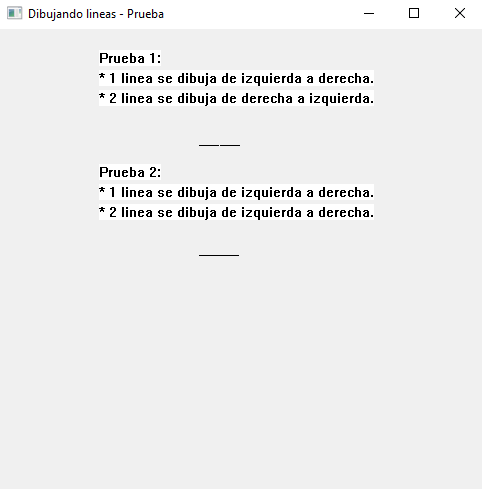
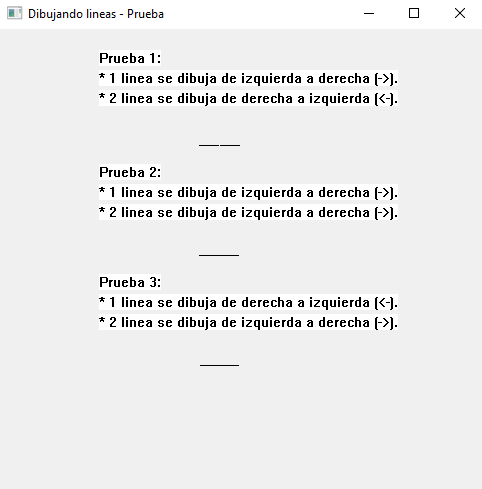
Practice

Changed region(s): [[0.2178, 0.5521, 0.8402, 0.6748], [0.778, 0.3681, 0.8402, 0.4601], [0.778, 0.1534, 0.8402, 0.2147]]

diff --git a/c++/contorno_fractal_t_square/contorno_fractal_t_square.cpp b/c++/contorno_fractal_t_square/contorno_fractal_t_square.cpp
@@ -7,16 +7,16 @@ using namespace std;
 static TCHAR class_name[] = "Desktop App";
 static TCHAR title_text[] = "Contorno fractal - T-square";
 // Declaración del procedimiento de ventana
-//void dibujarObjeto(HDC, int, int, int);
-void dibujarLinea(HDC, int, int, int, int);
-void dibujarBordeEsquinaSI(HDC, int, int, int);
-void dibujarBordeEsquinaSD(HDC, int, int, int);
-void dibujarBordeEsquinaII(HDC, int, int, int);
-void dibujarBordeEsquinaID(HDC, int, int, int);
-void dibujarEsquina(HDC, int, int, int, int);
-void contornoFractal(HDC, int, int, int);
-//void L(HDC, int, int, int, int);
-int width, height;
+//void dibujarObjeto(HDC, double, double, double);
+void dibujarLinea(HDC, double, double, double, double);
+void dibujarBordeEsquinaSI(HDC, double, double, double);
+void dibujarBordeEsquinaSD(HDC, double, double, double);
+void dibujarBordeEsquinaII(HDC, double, double, double);
+void dibujarBordeEsquinaID(HDC, double, double, double);
+void dibujarEsquina(HDC, double, double, double, double);
+void contornoFractal(HDC, double, double, double);
+//void L(HDC, double, double, double, double);
+double width, height;
 LRESULT CALLBACK WindowProcedure(HWND, UINT, WPARAM, LPARAM);
 int WINAPI WinMain(
   HINSTANCE hThisInstance,
@@ -73,7 +73,7 @@ int WINAPI WinMain(
   return mensaje.wParam;
 }
 /* Definition */
-/*void dibujarObjeto(HDC hdc, int x, int y, int a) {
+/*void dibujarObjeto(HDC hdc, double x, double y, double a) {
   MoveToEx(hdc, x, y, NULL);
   LineTo(hdc, x + a, y);
   MoveToEx(hdc, x + a, y, NULL);
@@ -83,33 +83,34 @@ int WINAPI WinMain(
   MoveToEx(hdc, x, y + a, NULL);
   LineTo(hdc, x, y);
 }*/
-void dibujarLinea(HDC hdc, int xi, int yi, int xf, int yf) {
+void dibujarLinea(HDC hdc, double xi, double yi, double xf, double yf) {
   MoveToEx(hdc, xi, yi, NULL);
   LineTo(hdc, xf, yf);
 }
 // Dibujar bordes de esquina SI, SD, II, ID
-void dibujarBordeEsquinaSI(HDC hdc, int x, int y, int a) {
-  dibujarLinea(hdc, x, y, x, y + (a / 2)); // Borde SI -> Izq
-  dibujarLinea(hdc, x, y, x + (a / 2), y); // Borde SI -> Sup
+void dibujarBordeEsquinaSI(HDC hdc, double x, double y, double a) {
+  dibujarLinea(hdc, x, y + (a / 2), x, y); // Borde SI -> Izq
+  dibujarLinea(hdc, x + (a / 2), y, x, y); // Borde SI -> Sup
 }
-void dibujarBordeEsquinaSD(HDC hdc, int x, int y, int a) {
+void dibujarBordeEsquinaSD(HDC hdc, double x, double y, double a) {
   dibujarLinea(hdc, x, y + (a / 2), x, y); // Borde SD -> Der
   dibujarLinea(hdc, x - (a / 2), y, x, y); // borde SD -> Sup
 }
-void dibujarBordeEsquinaII(HDC hdc, int x, int y, int a) {
+void dibujarBordeEsquinaII(HDC hdc, double x, double y, double a) {
   dibujarLinea(hdc, x, y - (a / 2), x, y); // Borde II -> Izq
-  dibujarLinea(hdc, x, y, x + (a / 2), y); // Borde II -> Inf
+  dibujarLinea(hdc, x + (a / 2), y, x, y); // Borde II -> Inf
 }
-void dibujarBordeEsquinaID(HDC hdc, int x, int y, int a) {
+void dibujarBordeEsquinaID(HDC hdc, double x, double y, double a) {
   dibujarLinea(hdc, x, y - (a / 2), x, y); // Borde ID -> Der
   dibujarLinea(hdc, x - (a / 2), y, x, y); // Borde ID -> Inf
 }
-
-void dibujarEsquina(HDC hdc, int x, int y, int a, int lu) {
+void dibujarEsquina(HDC hdc, double x, double y, double a, double lu) {
   if (a > 100) { // Prueba cambiando el numero 100 por un numero menor o mayor
     if (lu == 1) {
-      dibujarLinea(hdc, x - (a / 4), y - (a / 2), x + (a / 4), y - (a / 2)); // Superior
-      dibujarLinea(hdc, x - (a / 2), y - (a / 4), x - (a / 2), y + (a / 4)); // Izquierda
+      dibujarLinea(hdc, x, y - (a / 2), x - (a / 4), y - (a / 2)); // Superior - Parte 1
+      dibujarLinea(hdc, x, y - (a / 2), x + (a / 4), y - (a / 2)); // Superior - Parte 2
+      dibujarLinea(hdc, x - (a / 2), y, x - (a / 2), y - (a / 4)); // Izquierda - Parte 1
+      dibujarLinea(hdc, x - (a / 2), y, x - (a / 2), y + (a / 4)); // Izquierda - Parte 2
       dibujarLinea(hdc, x, y + (a / 2), x - (a / 4), y + (a / 2)); // Inferior
       dibujarLinea(hdc, x + (a / 2), y, x + (a / 2), y - (a / 4)); // Derecha
       dibujarEsquina(hdc, x - (a / 2), y - (a / 2), a / 2, 1); // SI
@@ -117,18 +118,22 @@ void dibujarEsquina(HDC hdc, int x, int y, int a, int lu) {
       dibujarEsquina(hdc, x - (a / 2), y + (a / 2), a / 2, 3); // II
     }
     else if (lu == 2) {
-      dibujarLinea(hdc, x - (a / 4), y - (a / 2), x + (a / 4), y - (a / 2)); // Superior
+      dibujarLinea(hdc, x, y - (a / 2), x - (a / 4), y - (a / 2)); // Superior - Parte 1
+      dibujarLinea(hdc, x, y - (a / 2), x + (a / 4), y - (a / 2)); // Superior - Parte 2
       dibujarLinea(hdc, x - (a / 2), y, x - (a / 2), y - (a / 4)); // Izquierda
       dibujarLinea(hdc, x, y + (a / 2), x + (a / 4), y + (a / 2)); // Inferior
-      dibujarLinea(hdc, x + (a / 2), y - (a / 4), x + (a / 2), y + (a / 4)); // Derecha
+      dibujarLinea(hdc, x + (a / 2), y, x + (a / 2), y - (a / 4)); // Derecha - Parte 1
+      dibujarLinea(hdc, x + (a / 2), y, x + (a / 2), y + (a / 4)); // Derecha - Parte 2
       dibujarEsquina(hdc, x + (a / 2), y - (a / 2), a / 2, 2); // SD
       dibujarEsquina(hdc, x - (a / 2), y - (a / 2), a / 2, 1); // SI
       dibujarEsquina(hdc, x + (a / 2), y + (a / 2), a / 2, 4); // ID
     }
     else if (lu == 3) {
       dibujarLinea(hdc, x, y - (a / 2), x - (a / 4), y - (a / 2)); // Superior
-      dibujarLinea(hdc, x - (a / 2), y - (a / 4), x - (a / 2), y + (a / 4)); // Izquierda
-      dibujarLinea(hdc, x - (a / 4), y + (a / 2), x + (a / 4), y + (a / 2)); // Inferior
+      dibujarLinea(hdc, x - (a / 2), y, x - (a / 2), y - (a / 4)); // Izquierda - Parte 1
+      dibujarLinea(hdc, x - (a / 2), y, x - (a / 2), y + (a / 4)); // Izquierda - Parte 2
+      dibujarLinea(hdc, x, y + (a / 2), x - (a / 4), y + (a / 2)); // Inferior - Parte 1
+      dibujarLinea(hdc, x, y + (a / 2), x + (a / 4), y + (a / 2)); // Inferior - Parte 2
       dibujarLinea(hdc, x + (a / 2), y, x + (a / 2), y + (a / 4)); // Derecha
       dibujarEsquina(hdc, x - (a / 2), y + (a / 2), a / 2, 3); // II
       dibujarEsquina(hdc, x - (a / 2), y - (a / 2), a / 2, 1); // SI
@@ -137,8 +142,10 @@ void dibujarEsquina(HDC hdc, int x, int y, int a, int lu) {
     else {
       dibujarLinea(hdc, x, y - (a / 2), x + (a / 4), y - (a / 2)); // Superior
       dibujarLinea(hdc, x - (a / 2), y, x - (a / 2), y + (a / 4)); // Izquierda
-      dibujarLinea(hdc, x - (a / 4), y + (a / 2), x + (a / 4), y + (a / 2)); // Inferior
-      dibujarLinea(hdc, x + (a / 2), y - (a / 4), x + (a / 2), y + (a / 4)); // Derecha
+      dibujarLinea(hdc, x, y + (a / 2), x - (a / 4), y + (a / 2)); // Inferior - Parte 1
+      dibujarLinea(hdc, x, y + (a / 2), x + (a / 4), y + (a / 2)); // Inferior - Parte 2
+      dibujarLinea(hdc, x + (a / 2), y, x + (a / 2), y - (a / 4)); // Derecha - Parte 1
+      dibujarLinea(hdc, x + (a / 2), y, x + (a / 2), y + (a / 4)); // Derecha - Parte 2
       dibujarEsquina(hdc, x + (a / 2), y + (a / 2), a / 2, 4); // ID
       dibujarEsquina(hdc, x + (a / 2), y - (a / 2), a / 2, 2); // SD
       dibujarEsquina(hdc, x - (a / 2), y + (a / 2), a / 2, 3); // II
@@ -167,13 +174,17 @@ void dibujarEsquina(HDC hdc, int x, int y, int a, int lu) {
     }
   }
 }
-void contornoFractal(HDC hdc, int x, int y, int a) {
+void contornoFractal(HDC hdc, double x, double y, double a) {
   //Rectangle(hdc, x-a, y-a, x+a, y+a);
   //dibujarObjeto(hdc, x -(a / 2), y - (a / 2), a);
-  dibujarLinea(hdc, x - (a / 4), y - (a / 2), x + (a / 4), y - (a / 2));
-  dibujarLinea(hdc, x - (a / 4), y + (a / 2), x + (a / 4), y + (a / 2));
-  dibujarLinea(hdc, x - (a / 2), y - (a / 4), x - (a / 2), y + (a / 4));
-  dibujarLinea(hdc, x + (a / 2), y - (a / 4), x + (a / 2), y + (a / 4));
+  dibujarLinea(hdc, x, y - (a / 2), x - (a / 4), y - (a / 2)); // Superior - Parte 1
+  dibujarLinea(hdc, x, y - (a / 2), x + (a / 4), y - (a / 2)); // Superior - Parte 2
+  dibujarLinea(hdc, x, y + (a / 2), x - (a / 4), y + (a / 2)); // Inferior - Parte 1
+  dibujarLinea(hdc, x, y + (a / 2), x + (a / 4), y + (a / 2)); // Inferior - Parte 2
+  dibujarLinea(hdc, x - (a / 2), y, x - (a / 2), y - (a / 4)); // Izquierda - Parte 1
+  dibujarLinea(hdc, x - (a / 2), y, x - (a / 2), y + (a / 4)); // Izquierda - Parte 2
+  dibujarLinea(hdc, x + (a / 2), y, x + (a / 2), y - (a / 4)); // Derecha - Parte 1
+  dibujarLinea(hdc, x + (a / 2), y, x + (a / 2), y + (a / 4)); // Derecha - Parte 2
   // SI = 1; SD = 2; II = 3; ID = 4;
   // SI = superior izquierdo
   // SD = superior derecho
@@ -184,7 +195,7 @@ void contornoFractal(HDC hdc, int x, int y, int a) {
   dibujarEsquina(hdc, x - (a / 2), y + (a / 2), a / 2, 3); // II
   dibujarEsquina(hdc, x + (a / 2), y + (a / 2), a / 2, 4); // ID
 }
-/*void L(HDC hdc, int xi, int yi, int xf, int yf) {
+/*void L(HDC hdc, double xi, double yi, double xf, double yf) {
   MoveToEx(hdc, xi, yi, NULL);
   LineTo(hdc, xf, yf);
 }*/

diff --git a/c++/contorno_fractal_t_square/dibujando_lineas_prueba.cpp b/c++/contorno_fractal_t_square/dibujando_lineas_prueba.cpp
@@ -87,21 +87,29 @@ LRESULT CALLBACK WindowProcedure(HWND hwnd, UINT mensaje, WPARAM wParam, LPARAM 
       HDC hdc;
       hdc = BeginPaint(hwnd, &ps);
       static TCHAR titulo1[] = "Prueba 1:";
-      static TCHAR prueba_11[] = "* 1 linea se dibuja de izquierda a derecha.";
-      static TCHAR prueba_12[] = "* 2 linea se dibuja de derecha a izquierda.";
+      static TCHAR prueba_11[] = "* 1 linea se dibuja de izquierda a derecha (->).";
+      static TCHAR prueba_12[] = "* 2 linea se dibuja de derecha a izquierda (<-).";
       TextOut(hdc, width/5, height/12 - 20, titulo1, strlen(titulo1));
       TextOut(hdc, width/5, height/12, prueba_11, strlen(prueba_11));
       TextOut(hdc, width/5, height/12 + 20, prueba_12, strlen(prueba_12));
       dibujarLinea(hdc, x_ini, y_ini, x_ini + 20, y_ini);
       dibujarLinea(hdc, x_ini + 40, y_ini, x_ini + 20, y_ini);
       static TCHAR titulo2[] = "Prueba 2:";
-      static TCHAR prueba_21[] = "* 1 linea se dibuja de izquierda a derecha.";
-      static TCHAR prueba_22[] = "* 2 linea se dibuja de izquierda a derecha.";
+      static TCHAR prueba_21[] = "* 1 linea se dibuja de izquierda a derecha (->).";
+      static TCHAR prueba_22[] = "* 2 linea se dibuja de izquierda a derecha (->).";
       TextOut(hdc, width/5, (3 * height)/12 + 10, titulo2, strlen(titulo2));
       TextOut(hdc, width/5, (3 * height)/12 + 30, prueba_21, strlen(prueba_21));
       TextOut(hdc, width/5, (3 * height)/12 + 50, prueba_22, strlen(prueba_22));
       dibujarLinea(hdc, x_ini, y_ini + 110, x_ini + 20, y_ini + 110);
       dibujarLinea(hdc, x_ini + 20, y_ini + 110, x_ini + 40, y_ini + 110);
+      static TCHAR titulo3[] = "Prueba 3:";
+      static TCHAR prueba_31[] = "* 1 linea se dibuja de derecha a izquierda (<-).";
+      static TCHAR prueba_32[] = "* 2 linea se dibuja de izquierda a derecha (->).";
+      TextOut(hdc, width/5, (3 * height)/12 + 120, titulo3, strlen(titulo3));
+      TextOut(hdc, width/5, (3 * height)/12 + 140, prueba_31, strlen(prueba_31));
+      TextOut(hdc, width/5, (3 * height)/12 + 160, prueba_32, strlen(prueba_32));
+      dibujarLinea(hdc, x_ini + 20, y_ini + 220, x_ini, y_ini + 220);
+      dibujarLinea(hdc, x_ini + 20, y_ini + 220, x_ini + 40, y_ini + 220);
       EndPaint(hwnd, &ps);
       break;
     case WM_DESTROY:

diff --git a/c++/contorno_fractal_t_square/README.md b/c++/contorno_fractal_t_square/README.md
@@ -1,11 +1,14 @@
 # Contorno Fractal - T-square
+
+![](./images/contorno-fractal-t-square.jpg)
+
 ## Compilar
 Para compilar el código simplemente abra su terminal y ejecute:
 ```
 g++ -mconsole -mwindows .\contorno_fractal_t_square.cpp -o .\output.exe
 ```
 
-En la linea 109, puedes cambiar el numero 100 por un número mas pequeño o uno más grande.  
+En la linea 108, puedes cambiar el numero 100 por un número mas pequeño o uno más grande.  
 ![Contorno Fractal - T-square](./images/contorno-fractal-t-square-porcion-de-codigo.png)
 
 Aquí te dejo algunos ejemplos:
@@ -20,10 +23,11 @@ Aquí te dejo algunos ejemplos:
 * Con 6  
 ![Contorno Fractal - T-square](./images/contorno-fractal-t-square-5.png)
 
-De las capturas de pantalla, ¿Te diste cuenta de un pequeño detalle?. Pues, ese espacio que apenas se logra ver entre las lineas es porque la primera linea se dibuja de izquierda a derecha y la segunda linea se dibuja de derecha a izquierda. Ahora, para poder eliminar ese espacio entre lineas se tiene que dibujar la primera linea de izquierda a derecha y luego la segunda linea de izquierda a derecha. Para probarlo, vamos a dibujar lineas para ambos casos, el código para dibujar las lineas lo puedes encontrar en el archivo `dibujando_lineas_prueba.cpp`.
+## Nota
+Para dibujar 2 o más lineas debes tener en cuenta la dirección ya que puede que obtengas espacios entre lineas, es por eso que hice 3 pruebas para que veas como se dibujan las lineas en distintas direcciones. El ejemplo lo puedes en contrar en el archivo `dibujando_lineas_prueba.cpp`.
 
 En papel:  
-![Dibujando lineas - Prueba en papel](./images/dibujando-lineas-prueba-en-papel.png)
+![Dibujando lineas - Prueba en papel](./images/dibujando-lineas-prueba-en-papel.jpg)
 
 Con código:  
 ![Dibujando lineas - Prueba con código](./images/dibujando-lineas-prueba.png)
